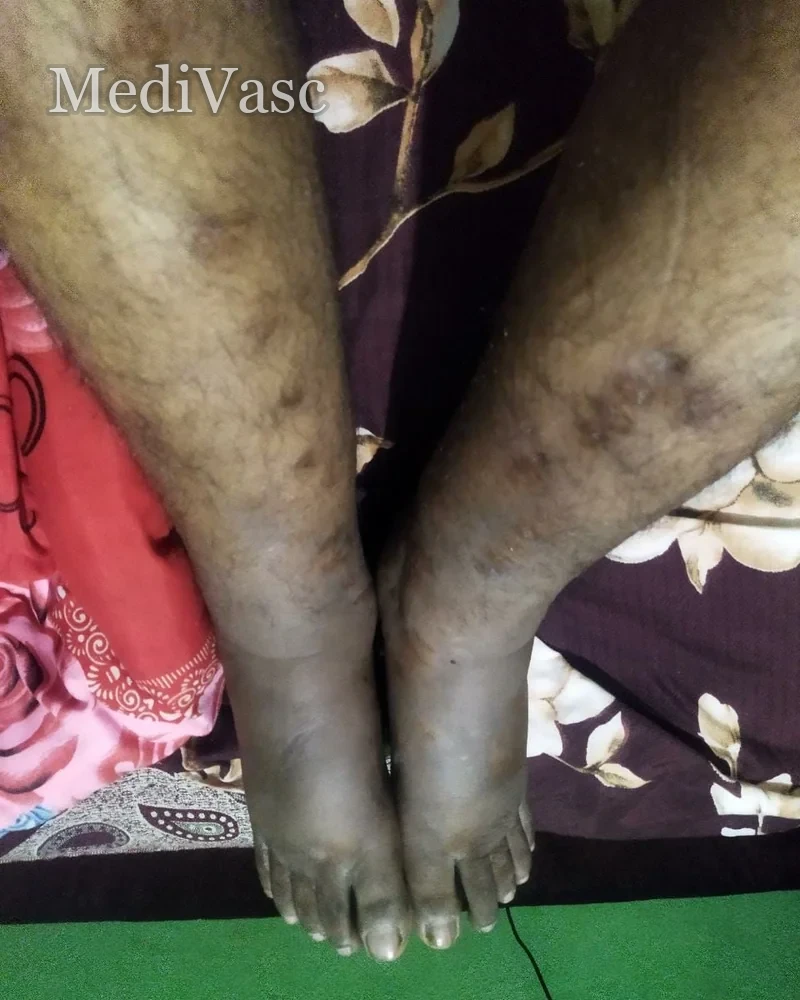
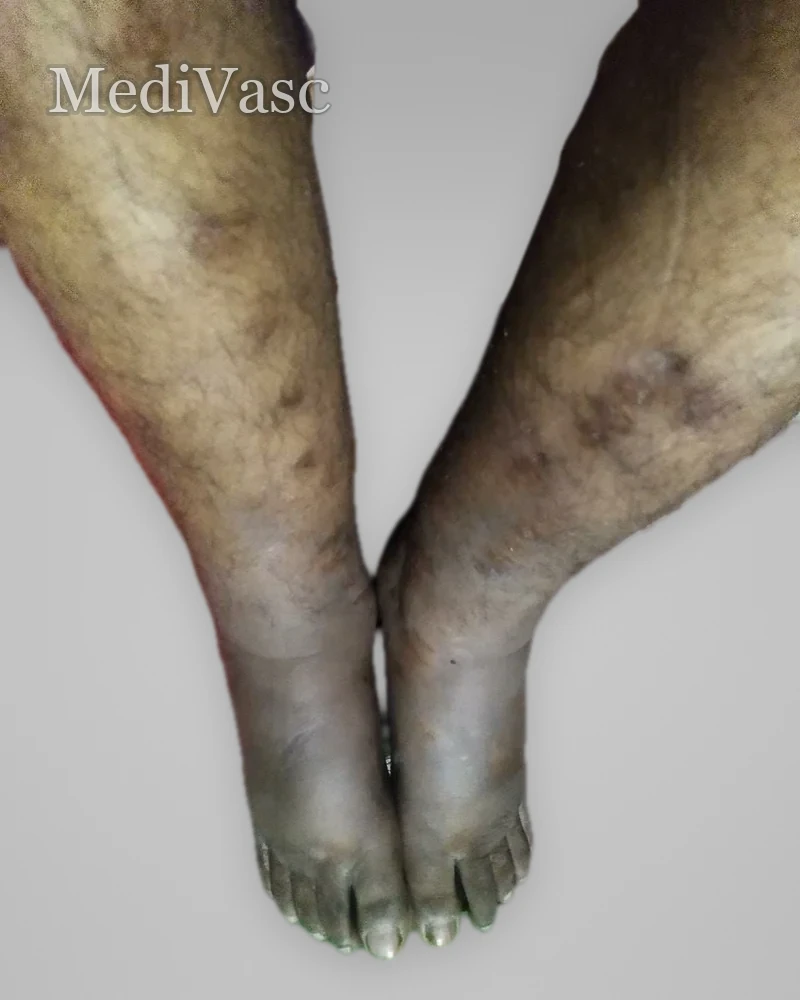
Clean recovery backdrops, smaller complications photos, new in-therapy section
- Recoveries 4, 5, 6, 7, 9, 12: backgrounds replaced with the hero's neutral
  gray studio backdrop (one canonical backdrop for all; subject pixels and
  watermark untouched).
- Complications we manage (desktop >=1001px): photo carousel 560 -> 360px wide,
  card becomes a row with copy beside the photo; tablet/mobile unchanged.
- New #treatment section below #solutions: "Patients undergoing treatment",
  five bg-removed + watermarked in-therapy photos grouped per patient
  (static list in template.js, variants via buildGallery). Phones get a
  swipeable row so the 2-1-2 split never leaves an empty half-card.

Claude-Session: https://claude.ai/code/session_01Gzqg9PYLuzpBtmpUaoHhnd

diff --git a/src/styles.css b/src/styles.css
@@ -579,7 +579,7 @@ img{-webkit-user-drag:none;-webkit-user-select:none;user-select:none;-webkit-tou
    Condition solutions + patient voices (post #recoveries)
    Two carousel cards in one row, then a one-row carousel of message screenshots.
    ============================================================================ */
-.solutions,.voices{border-top:1px solid color-mix(in srgb,var(--line) 55%,transparent)}
+.solutions,.treatment,.voices{border-top:1px solid color-mix(in srgb,var(--line) 55%,transparent)}
 
 .solution-grid{display:grid;grid-template-columns:repeat(2,minmax(0,1fr));gap:clamp(24px,3vw,40px)}
 .solution-card{display:flex;flex-direction:column;min-width:0;padding:clamp(14px,1.8vw,20px);padding-bottom:clamp(24px,2.6vw,32px);border-radius:24px;background:color-mix(in srgb,var(--surface) 66%,transparent);box-shadow:inset 0 0 0 1px color-mix(in srgb,var(--line) 68%,transparent),0 30px 66px -40px color-mix(in srgb,var(--ink) 46%,transparent)}
@@ -637,6 +637,53 @@ html:not(.js) .solution-carousel__arrow,html:not(.js) .solution-carousel__meta,h
 }
 @keyframes swipe-hint{0%,100%{transform:translateX(-50%)}30%{transform:translateX(-72%)}70%{transform:translateX(-28%)}}
 @media (prefers-reduced-motion:reduce){.solution-carousel__hint{animation:none!important}}
+/* Desktop: each condition card turns into one full-width row — the photo carousel
+   in a fixed column on the left, title/copy/CTA beside it. A full-width stacked
+   photo measured 560px wide (3x a 187px recovery pair-story photo, 1.4x the 392px
+   featured journey); at 360px it sits just under the journey's scale, roughly the
+   width of one recovery card's before/after pair. ≤1000px keeps the stacked card
+   (this block only adds properties, so nothing leaks below the breakpoint). */
+@media (min-width:1001px){
+  .solution-grid{grid-template-columns:minmax(0,1fr);gap:clamp(24px,2.6vw,32px)}
+  .solution-card{display:grid;grid-template-columns:clamp(300px,28vw,360px) minmax(0,1fr);grid-template-rows:auto minmax(0,1fr) auto;column-gap:clamp(36px,4vw,56px);padding:20px clamp(28px,3vw,44px) 20px 20px}
+  .solution-carousel{grid-column:1;grid-row:1/-1;align-self:start}
+  .solution-card__title{grid-column:2;grid-row:1;margin:0;padding:14px 0 0}
+  .solution-card__body{grid-column:2;grid-row:2;padding:18px 0 0}
+  .solution-card__p{max-width:64ch}
+  .solution-card__cta{grid-column:2;grid-row:3;justify-self:start;margin:6px 0 4px}
+}
+
+/* Patients undergoing treatment (#treatment) — one card per patient, every photo
+   at the recoveries' pair-story scale (~200px on desktop). Cards share the row by
+   photo count: flex-basis is a card's fixed part (padding + inner gaps) and
+   flex-grow its photo count, so the leftover width is split per photograph and a
+   2-1-2 split renders five equal frames that fill the container edge to edge. */
+.treatment-row{--tg-pad:clamp(12px,1.6vw,22px);--tg-gap:10px;display:flex;gap:clamp(18px,3.6vw,44px);align-items:stretch}
+.treatment-group{flex:var(--n) 1 calc(2 * var(--tg-pad) + (var(--n) - 1) * var(--tg-gap));display:flex;flex-direction:column;min-width:0;padding:var(--tg-pad);border-radius:22px;background:color-mix(in srgb,var(--surface) 66%,transparent);box-shadow:inset 0 0 0 1px color-mix(in srgb,var(--line) 68%,transparent),0 30px 66px -40px color-mix(in srgb,var(--ink) 46%,transparent)}
+.treatment-group__photos{display:grid;grid-template-columns:repeat(var(--n),minmax(0,1fr));gap:var(--tg-gap)}
+.treatment-group .evidence__image{box-shadow:0 16px 40px -18px color-mix(in srgb,var(--ink) 30%,transparent)}
+.treatment-group__caption{display:flex;flex-direction:column;gap:3px;padding:16px 6px 2px}
+.treatment-group__label{color:var(--accent);font-size:.75rem;font-weight:600;letter-spacing:.12em;line-height:1.5;text-transform:uppercase}
+.treatment-group__place{display:flex;align-items:flex-start;gap:6px;margin:0;font-size:1.0625rem;font-weight:600;line-height:1.35;letter-spacing:-.01em}
+.treatment-group__place .icon{width:17px;height:17px;margin-top:2px;color:var(--primary)}
+@media (max-width:1000px){
+  .treatment-group .evidence__stage{left:8px;bottom:8px;padding:3px 10px;font-size:.625rem}
+}
+/* Phones: one swipeable row (the solution carousels' touch pattern). Every photo
+   keeps the same width (--ph), so a card is sized by its photo count and the
+   2-1-2 split never leaves an empty half-card; the row bleeds to the screen edge
+   and the next card peeks in as the swipe cue. */
+@media (max-width:760px){
+  .treatment-row{--tg-pad:10px;--tg-gap:8px;--ph:min(38vw,170px);gap:12px;margin-inline:calc(50% - 50vw);padding:4px calc(50vw - 50%) 28px;overflow-x:auto;scroll-snap-type:x mandatory;overscroll-behavior-x:contain;-webkit-overflow-scrolling:touch;scrollbar-width:none}
+  .treatment-row::-webkit-scrollbar{display:none}
+  .treatment-group{flex:0 0 auto;width:calc(var(--n) * var(--ph) + (var(--n) - 1) * var(--tg-gap) + 2 * var(--tg-pad));border-radius:18px;scroll-snap-align:center}
+  .treatment-group .evidence__image{border-radius:12px}
+  .treatment-group__caption{padding:12px 4px 2px}
+  .treatment-group__label{font-size:.6875rem}
+  .treatment-group__place{font-size:.9375rem}
+  .treatment-group__place .icon{width:15px;height:15px;margin-top:2px}
+}
+
 /* "No consultation charges" reassurance (in #act above #about, and #contact below). */
 .free-consult{display:inline-flex;align-items:center;gap:13px;max-width:100%;margin-top:24px;padding:12px 20px 12px 14px;border-radius:16px;background:color-mix(in srgb,var(--primary) 7%,var(--surface));box-shadow:inset 0 0 0 1px color-mix(in srgb,var(--primary) 24%,transparent)}
 .free-consult__icon{flex:none;display:grid;place-items:center;width:36px;height:36px;border-radius:11px;background:color-mix(in srgb,var(--primary) 14%,transparent);color:var(--primary)}

diff --git a/src/template.js b/src/template.js
@@ -168,10 +168,10 @@ const solutionSlide = (item, imageMap, condition, index, total) => `
         <li class="solution-slide">
           <div class="evidence">
             <div class="evidence__image">
-              <div class="evidence__fill" aria-hidden="true">${image(item.src, imageMap, { alt: '', sizes: '(max-width:1000px) 92vw, 45vw', width: item.width, height: item.height })}</div>
+              <div class="evidence__fill" aria-hidden="true">${image(item.src, imageMap, { alt: '', sizes: '(max-width:1000px) 92vw, 380px', width: item.width, height: item.height })}</div>
               ${image(item.src, imageMap, {
                 alt: `${condition}: photograph ${index + 1} of ${total}`,
-                sizes: '(max-width:1000px) 92vw, 45vw',
+                sizes: '(max-width:1000px) 92vw, 380px',
                 width: item.width,
                 height: item.height,
               })}
@@ -212,6 +212,55 @@ const renderSolutionCard = (card, imageMap, index) => {
       </div>
       <a class="button solution-card__cta" href="${card.cta.href}"${card.cta.external ? ' target="_blank" rel="noreferrer"' : ''}>${card.cta.icon} ${escapeHtml(card.cta.label)}</a>
     </article>`;
+};
+
+// Patients currently in therapy (#treatment, directly below #solutions). A static
+// owner-supplied set like #watch — no admin field, no data file. One entry per
+// patient, photos in display order; build.js imports this list to build the
+// responsive variants, and the section renders nothing when it is empty. When a
+// patient's after photographs arrive they belong in #recoveries, not here.
+const TREATMENT_PATIENTS = [
+  { location: 'Maharashtra', photos: ['assets/treatment/treatment-01.webp', 'assets/treatment/treatment-02.webp'] },
+  { location: 'Gurugram, Haryana', photos: ['assets/treatment/treatment-03.webp'] },
+  { location: 'Visakhapatnam, Andhra Pradesh', photos: ['assets/treatment/treatment-04.webp', 'assets/treatment/treatment-05.webp'] },
+];
+
+// One in-therapy photograph — the recoveries' evidence frame (4:5, blurred cover
+// fill behind a contained photo) with an "In therapy" stage pill (accent dot).
+const treatmentFrame = (src, imageMap, alt) => {
+  const sizes = '(max-width: 760px) 44vw, (max-width: 1000px) 16vw, 210px';
+  return `
+          <figure class="evidence" data-stage="during">
+            <div class="evidence__image">
+              <div class="evidence__fill" aria-hidden="true">${image(src, imageMap, { alt: '', sizes })}</div>
+              ${image(src, imageMap, { alt, sizes })}
+            </div>
+            <figcaption class="evidence__stage">In therapy</figcaption>
+          </figure>`;
+};
+
+// One card per patient. --n (photo count) drives the card's share of the row so
+// every photograph in the row renders at the same width (see styles.css).
+const renderTreatmentGroup = (patient, imageMap, index) => {
+  const count = patient.photos.length;
+  const number = String(index + 1).padStart(2, '0');
+  return `
+      <article class="treatment-group${count === 1 ? ' treatment-group--single' : ''}" data-reveal style="--n:${count};--reveal-order:${index}" aria-label="Patient ${index + 1}, ${escapeHtml(patient.location)}">
+        <div class="treatment-group__photos">${patient.photos
+          .map((src, photoIndex) =>
+            treatmentFrame(
+              src,
+              imageMap,
+              `In-therapy photograph${count > 1 ? ` ${photoIndex + 1} of ${count}` : ''}: MediVasc patient from ${patient.location}`,
+            ),
+          )
+          .join('')}
+        </div>
+        <div class="treatment-group__caption">
+          <span class="treatment-group__label">Patient ${number}</span>
+          <h3 class="treatment-group__place">${icon('map')}<span>${escapeHtml(patient.location)}</span></h3>
+        </div>
+      </article>`;
 };
 
 // A patient-message screenshot slide in the voices carousel — one row, natural
@@ -451,6 +500,23 @@ const renderPage = ({
         </div>
         <div class="solution-grid">
           ${solutionCards.map((card, index) => renderSolutionCard(card, imageMap, index)).join('')}
+        </div>
+      </div>
+    </section>`
+    : '';
+  const treatmentPatients = TREATMENT_PATIENTS.filter((patient) => patient.photos.length);
+  const treatmentSection = treatmentPatients.length
+    ? `<section class="section treatment" id="treatment">
+      <div class="container">
+        <div class="section-heading" data-reveal>
+          <div>
+            <p class="kicker">In therapy now</p>
+            <h2>Patients <em>undergoing treatment</em></h2>
+          </div>
+          <p>Current MediVasc patients, photographed during their therapy. Their progress is ongoing, and we’ll add their after photographs as they recover.</p>
+        </div>
+        <div class="treatment-row">
+          ${treatmentPatients.map((patient, index) => renderTreatmentGroup(patient, imageMap, index)).join('')}
         </div>
       </div>
     </section>`
@@ -715,6 +781,8 @@ ${config.seo.googleVerification ? `  <meta name="google-site-verification" conte
 
     ${solutionsSection}
 
+    ${treatmentSection}
+
     ${voicesSection}
 
     <section class="section approach" id="approach">
@@ -905,4 +973,4 @@ ${config.seo.googleVerification ? `  <meta name="google-site-verification" conte
 </html>`;
 };
 
-module.exports = { renderPage };
+module.exports = { renderPage, TREATMENT_PATIENTS };

diff --git a/src/build.js b/src/build.js
@@ -3,7 +3,7 @@ const fs = require('node:fs/promises');
 const path = require('node:path');
 const sharp = require('sharp');
 
-const { renderPage } = require('./template');
+const { renderPage, TREATMENT_PATIENTS } = require('./template');
 
 const ROOT = path.resolve(__dirname, '..');
 const DIST = path.join(ROOT, 'dist');
@@ -403,15 +403,20 @@ const build = async () => {
 
   const solutionSrcs = solutionsData.flatMap((card) => (card.images || []).map((image) => image.src));
   const feedbackSrcs = feedbackData.map((item) => item.src);
-  const [imageMap, brand, solutions, feedback] = await Promise.all([
+  // In-therapy photographs (#treatment): a static list owned by the template, not
+  // a data file, but built through the same variant pipeline as every gallery.
+  const treatmentSrcs = TREATMENT_PATIENTS.flatMap((patient) => patient.photos);
+  const [imageMap, brand, solutions, feedback, treatment] = await Promise.all([
     buildImageMap(testimonials),
     copyBrandAssets(),
     // Condition carousels: crisp up to ~600px card width (1024 covers hi-dpi).
     buildGallery(solutionSrcs, [320, 640, 1024]),
     // Patient messages: 1600 so the lightbox stays readable on large screens.
     buildGallery(feedbackSrcs, [320, 640, 1024, 1600]),
+    // In-therapy photos render at recovery pair-story scale (~200px), same widths.
+    buildGallery(treatmentSrcs, [320, 640]),
   ]);
-  Object.assign(imageMap, solutions.map, feedback.map);
+  Object.assign(imageMap, solutions.map, feedback.map, treatment.map);
   // Resolve each card's manifest image list to processed items (order preserved),
   // dropping hidden cards and any left with no usable photographs.
   const solutionCards = solutionsData
